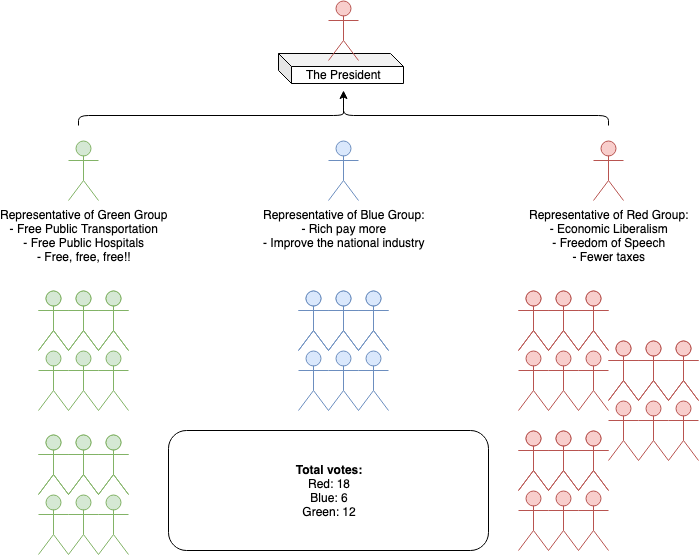
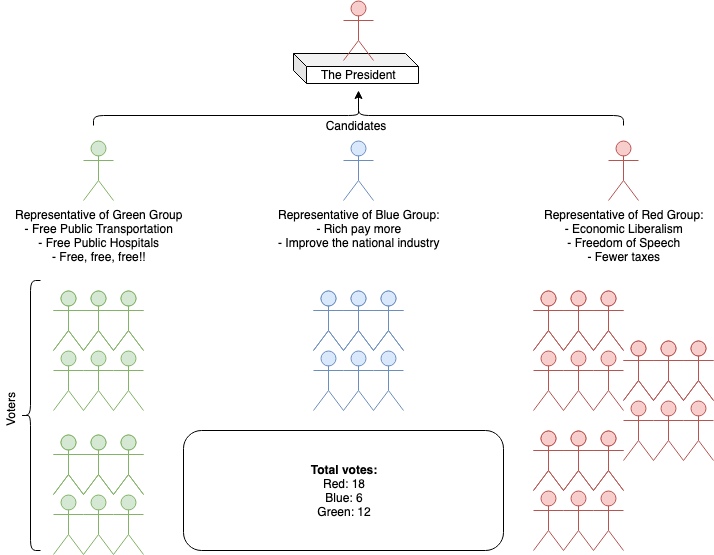
voting-system better definition

diff --git a/definitions.md b/definitions.md
@@ -55,11 +55,14 @@ Sympol has a divided power according to [Montesquieu's definition of *separation
 
 The definition of *the process of choosing representatives* is critical for understanding the political system behind Sympol.
 
-Sympol is democratic system, which means every person can give opinions about what is happening in their lives regarding the decisions of the government.
+Sympol is democratic system, which means every person can give opinions about what is happening in their lives regarding the decisions of the government by choosing a representative (voter), or being a representative (candidate).
 
 The process of giving opinion is called **election** and it can be described by the following image:
 
 ![Voting System](https://github.com/victorgcramos/tcc-unb/blob/master/images/voting-system.png)
+
+
+The consensus behind the decisions made by the population is the democratic one, which means if the **majority** stands for X, then X is approved. Therefore, the elected representative is chosen by the **major number of votes**, which, in this case, is the Red candidate.
 
 <!-- 
 Let's take this quote as the starting point of this work:
